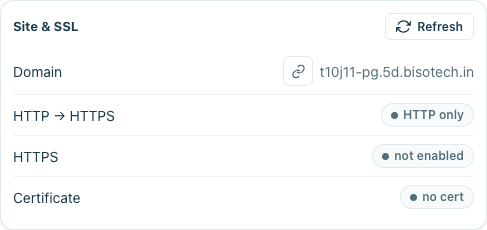
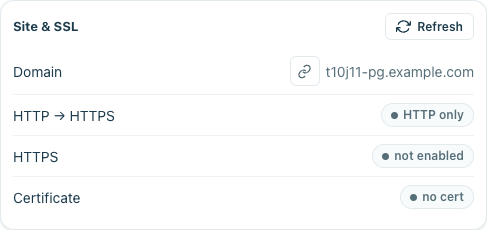
docs: purge private testbed domain (5d.bisotech.in) from docs
testbed.md: replace the campaign-box suffix with a neutral `example.com`
stand-in throughout and clarify that the suffix is whatever you configure
via `site_suffix` (substitute your own domain).

Screenshots: re-capture drawer-overview, drawer-site-ssl, and https-toggle
against the live UI with the real domain/IP neutralized to `example.com`
in the DOM before shooting. This also replaces the stale pre-v0.16.2
https-toggle shot (cramped modal, "39 threads", red SSL) with a clean
fullscreen drawer clip showing the per-site HTTPS toggle and a real
Live CPU %.

No private domain or IP now appears in any committed doc text or image.

Changed region(s): [[0.5852, 0.2739, 0.9856, 0.3652]]

diff --git a/docs/testbed.md b/docs/testbed.md
@@ -35,7 +35,7 @@ below); requests arrive at the panel's web server on `:80/:443` and are proxied
 to the app's loopback port. So:
 
 - **Health/`JAVAHOST_OK` from on the box** → curl `http://127.0.0.1:<port>/`.
-- **Health/`JAVAHOST_OK` from anywhere** → curl `http://<app>.5d.bisotech.in/`.
+- **Health/`JAVAHOST_OK` from anywhere** → curl `http://<app>.example.com/`.
 - **Never** expect the app on `http://<public-ip>:<port>/`.
 
 ---
@@ -69,14 +69,14 @@ back to a service-less path on hardened hosts**. But for the canonical campaign:
 
 ### 2. DNS is already wired
 
-`*.5d.bisotech.in` (wildcard) and the apex `5d.bisotech.in` already resolve to
+`*.example.com` (wildcard) and the apex `example.com` already resolve to
 this box's public IP. You do **not** need to create DNS records — only the
 reverse-proxy **site** that maps a hostname to an app's loopback port. The
 convention is one hostname per app:
 
 ```
-<app>.5d.bisotech.in   ->   box IP   ->   nginx proxy   ->   127.0.0.1:<app-port>
-5d.bisotech.in         ->   box IP   ->   nginx proxy   ->   (apex / default app)
+<app>.example.com   ->   box IP   ->   nginx proxy   ->   127.0.0.1:<app-port>
+example.com         ->   box IP   ->   nginx proxy   ->   (apex / default app)
 ```
 
 ### 3. Databases: aaPanel-managed vs Docker
@@ -204,7 +204,7 @@ Flags:
 
 - `--db-source aapanel|docker` — where databases come from (both supported).
 - `--proxy` — also create the reverse-proxy site per app and assert reachability
-  via the **real hostname** `<app>.5d.bisotech.in`, not just loopback.
+  via the **real hostname** `<app>.example.com`, not just loopback.
 - `--dry-run` — print the planned cells (the cartesian plan) and exit without
   installing or deploying anything. Run this first to sanity-check scope.
 
@@ -219,8 +219,8 @@ For each app, the canonical check is the **hostname**, not the port (remember th
 [loopback invariant](#the-1-gotcha--apps-bind-to-loopback-you-reach-them-via-a-domain)):
 
 ```bash
-curl -s http://hello.5d.bisotech.in/      | grep JAVAHOST_OK
-curl -s http://dbcheck.5d.bisotech.in/    | grep DB_OK
+curl -s http://hello.example.com/      | grep JAVAHOST_OK
+curl -s http://dbcheck.example.com/    | grep DB_OK
 ```
 
 With `--proxy`, the matrix does these hostname asserts for you. Without it, you
@@ -257,11 +257,11 @@ If a cell fails, open its app log (marker missing? namespace warning? driver
 ## Reverse proxy & domains
 
 JavaHost can create the reverse-proxy site that fronts an app's loopback port,
-following the convention `<app>.5d.bisotech.in` (with the apex `5d.bisotech.in`
+following the convention `<app>.example.com` (with the apex `example.com`
 for a default/apex app). Endpoints:
 
 - **`SetSite{app, domain?}`** — create a reverse-proxy site for `app`. With no
-  `domain`, it uses `<app>.5d.bisotech.in`; pass `domain` to override. It targets
+  `domain`, it uses `<app>.example.com`; pass `domain` to override. It targets
   the app's **loopback** port (`127.0.0.1:<port>`) and is created through the
   **aaPanel site API**, falling back to writing an **nginx vhost** directly if
   the site API is unavailable.
@@ -271,8 +271,9 @@ for a default/apex app). Endpoints:
 > `<app>.<suffix>` convention reads the suffix from the plugin config key
 > **`site_suffix`** (`/www/server/javahost/config.json`), which is **empty by
 > default**. With no suffix set, JavaHost never guesses an FQDN — you must pass an
-> explicit `domain`. This guide uses `5d.bisotech.in` because that is the suffix
-> configured on the campaign box (`site_suffix: "5d.bisotech.in"`).
+> explicit `domain`. This guide uses `example.com` as a stand-in for whatever
+> suffix you configure on your box (`site_suffix: "example.com"`); substitute your
+> own domain throughout.
 
 This is what makes an app reachable at all from outside the box — see the
 [loopback invariant](#the-1-gotcha--apps-bind-to-loopback-you-reach-them-via-a-domain).
@@ -309,8 +310,8 @@ Once SSL is on, an app's `request scheme` reads `https` end-to-end (the proxy se
 Verify after enabling:
 
 ```bash
-curl -s https://hello.5d.bisotech.in/ | grep JAVAHOST_OK
-curl -sI http://hello.5d.bisotech.in/ | grep '301'   # http -> https redirect
+curl -s https://hello.example.com/ | grep JAVAHOST_OK
+curl -sI http://hello.example.com/ | grep '301'   # http -> https redirect
 ```
 
 ---